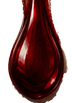
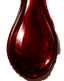
The drip quiets its trail and finds its teardrop (v4)
The repetition's tell was the BRIGHT specular blobs recurring down the
run — a dried trail should be quiet, the drop carries the gloss. Trail
pixels above a luminance floor now clamp toward the dark red (75%
flattened), eight varied segments instead of six. The drop recut
bulb-first with its specular BOOSTED so the gloss survives 15px — a
pointed top into a glossy round bottom, teardrop not bulb.

diff --git a/src/golem/bloodScrollbar.js b/src/golem/bloodScrollbar.js
@@ -8,7 +8,7 @@ import dropSprite from "../assets/blood/drip-drop.png";
 import trailTexture from "../assets/blood/drip-trail.png";
 
 const DROP_W = 15; // slimmer — 20px bulged over content (user feedback)
-const DROP_H = Math.round((104 / 72) * DROP_W); // sprite ratio
+const DROP_H = Math.round((81 / 64) * DROP_W); // sprite ratio (bulb-focused crop)
 
 function update(el) {
   const s = el.__bloodScroll;
